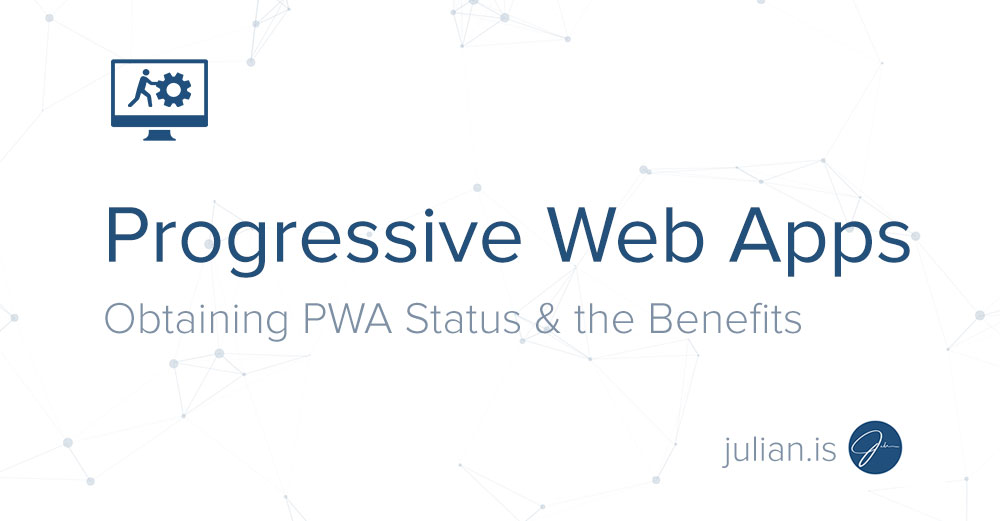
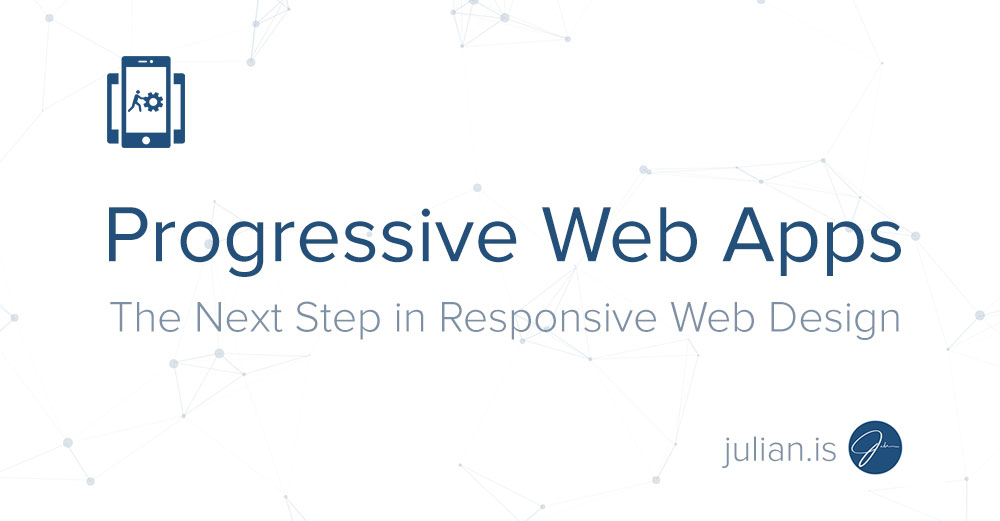
Finalized PWA article.

Changed region(s): [[0.124, 0.3992, 0.93, 0.5528], [0.093, 0.5835, 0.899, 0.6449], [0.093, 0.0921, 0.217, 0.3071]]

diff --git a/sw.js b/sw.js
@@ -1,4 +1,4 @@
-var CACHE_NAME = 'site-cache';
+var CACHE_NAME = 'site-cache-v3';
 var urlsToCache = [
   '/',
   '/style.css',
@@ -51,6 +51,23 @@ self.addEventListener('fetch', function(event) {
 
           return response;
         }
+      );
+    })
+  );
+});
+
+self.addEventListener('activate', function(event) {
+
+  var cacheWhitelist = ['site-cache-v3'];
+
+  event.waitUntil(
+    caches.keys().then(function(cacheNames) {
+      return Promise.all(
+        cacheNames.map(function(cacheName) {
+          if (cacheWhitelist.indexOf(cacheName) === -1) {
+            return caches.delete(cacheName);
+          }
+        })
       );
     })
   );

diff --git a/_posts/2017-03-20-progressive-web-apps.md b/_posts/2017-03-20-progressive-web-apps.md
@@ -1,6 +1,6 @@
 ---
 layout: post
-title:  "Progressive Web Apps — Obtaining PWA Status & the Benefits"
+title:  "Progressive Web Apps — The Next Step in Responsive Web Design"
 author: Julian Gaviria
 description:  PWAs are here to stay, and using them today could improve the engagement, bounce rate, and conversion rates of your website. 
 excerpt: PWAs are here to stay, and using them today could improve the engagement, bounce rate, and conversion rates of your website.
@@ -23,7 +23,7 @@ Then, I saw CSS wizard, Harry Roberts, [tweet](https://twitter.com/csswizardry/s
 
 I wasn’t too impressed with the results, but I couldn’t shake the feeling that there was more to this. If anything, I figured I’d do this, write about it, and save any developers who stumble across my website a bit of time. But I was really surprised with what I found.
 
-I sought out to see if PWAs could benefit the work I do daily with content marketing websites, and I was able to reach 100/100. You’ll see exactly what I did toward the end of this article, but I figured while I’m here, we could talk through it together.
+I sought out to see if PWAs could benefit the work I do daily with content marketing websites, and I was able to reach 100/100. You’ll see exactly what I did toward the end of this article, but I figured while I’m here, we could walk through it together.
 
 To begin, let’s get on the same page and define exactly what a PWA is. Google (you might have heard of this company before) says:
 <blockquote>
@@ -125,11 +125,24 @@ And off to optimization land I went.
 
 ### First Step: Enable Service Workers
 
-To reach the baseline of a PWA, we’re looking to provide a rich offline experience with the caching capabilities of service workers. With regular caching, we’re able to download and keep certain assets of a website for a certain period of time in order to avoid downloading them over and over again (CSS files, JS files, images, etc). However, a Service Worker allows for your website to cache network responses and pretend to still have internet access, even if you’re in the middle of an internet deadzone. 
+To reach the baseline of a PWA, we’re looking to provide a rich offline experience with the caching capabilities of service workers. On top of regular file caching, Service workers goes the extra mile to cache network responses and pretend to still have internet access (even if you’re in the middle of an internet deadzone). 
 
-If you turn off your wifi and refresh this page, without service workers, you would get a “No Internet connection” error, but since I have them enabled, the browser responds with a 200 (successfully connected) instead. 
+To start the installation of service workers, place the following script in the footer of your global footer (unless you only need/want service workers on a specific section of your website):
 
-To enable, create a JS file named sw.js and place it in the root directory of your website with the following code:
+<pre class="language-markup"><code>if ('serviceWorker' in navigator) {
+  window.addEventListener('load', function() {
+    navigator.serviceWorker.register('/sw.js').then(function(registration) {
+      // Registration was successful
+      console.log('ServiceWorker registration successful with scope: ', registration.scope);
+    }).catch(function(err) {
+      // registration failed :(
+      console.log('ServiceWorker registration failed: ', err);
+    });
+  });
+}</code>
+</pre>
+
+Next, create a JS file named sw.js and place it in the root directory of your website with the following code:
 
 (Note: Make sure that style.css and production.min.js are replaced with your site’s specific CSS and JS files.)
 
@@ -192,7 +205,12 @@ self.addEventListener('fetch', function(event) {
 });</code>
 </pre>
 
-You can get the specifics as to what you’re actually doing with the code above from the [documentation put together for service workers](https://developers.google.com/web/fundamentals/getting-started/primers/service-workers){:target="_blank" rel="noopener"} on the Google Developers website. For now, this is exactly what we need to cache 200 network response.
+
+For now, this is exactly what we need to cache a 200 netwrok response. I strongly recommend you get the specifics on the code above by going through the following documentation on the Google Developers website:
+* [Introduction to service workers](https://developers.google.com/web/fundamentals/getting-started/primers/service-workers){:target="_blank" rel="noopener"} 
+* [Service workers life cycle](https://developers.google.com/web/fundamentals/instant-and-offline/service-worker/lifecycle){:target="_blank" rel="noopener"}
+
+If you disconnect from the internet and refresh this page, the browser responds with a 200 (successfully connected) instead of a “no Internet connection”.
 
 This took care of the “App can load on offline/flaky connections” error and bumped my score up to 65/100. 
 

diff --git a/_posts/2016-09-19-why-ive-started-writing.md b/_posts/2016-09-19-why-ive-started-writing.md
@@ -7,8 +7,6 @@ excerpt: I spend most of my days trying to figure out design & development; I ki
 time: 2 minutes
 ---
 
-
-
 Why not? I spend most of my days trying to figure out design; whether I'm working with a junior designer trying to teach him/her a certain web design concept or I'm figuring out a stubborn front-end development bug, documentation on what I come across on a daily basis could be of good use to other designers in my field of work.
 
 
